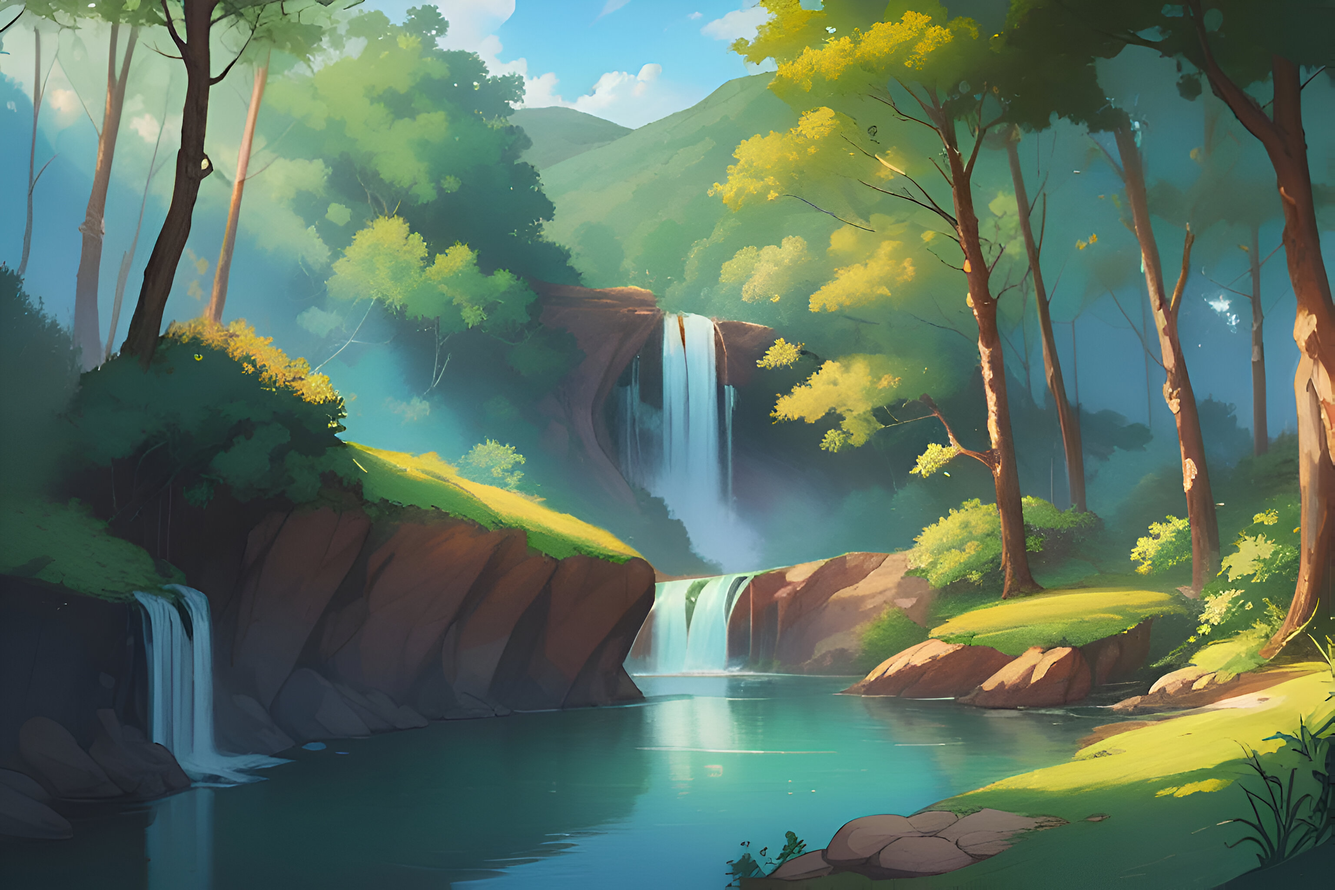
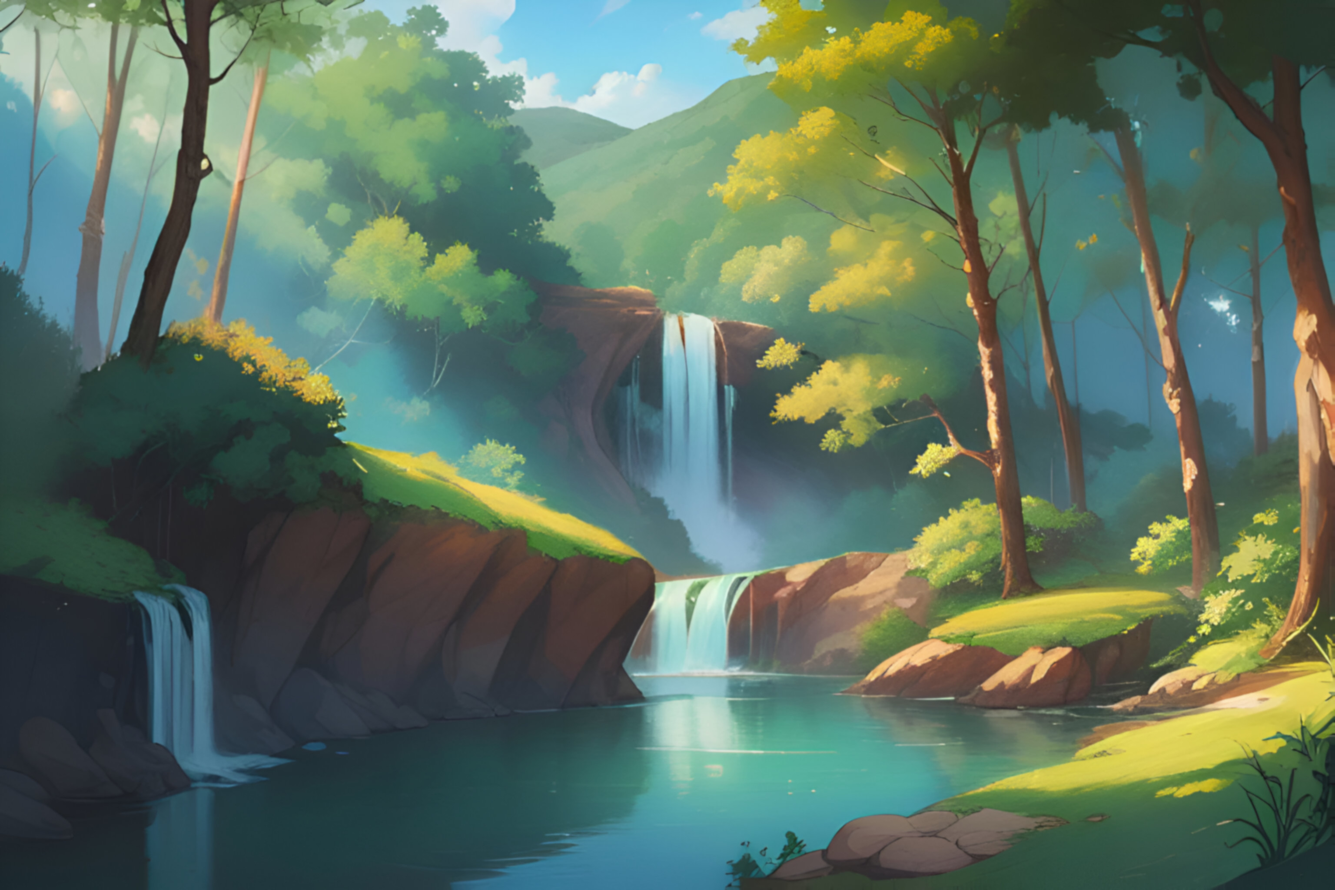
.

diff --git a/src/components/WelcomeScreen.vue b/src/components/WelcomeScreen.vue
@@ -37,10 +37,38 @@ export default {
   width: 80%;
 }
 
+.buttons {
+  display: flex;
+  align-items: center;
+  justify-content: center;
+  margin: 10rem 0 4rem 0;
+}
+
 .logo {
   img {
     height: 100%;
     width: 100%;
+  }
+}
+
+button {
+  font-size: 1.4rem;
+  background: #ffbf00;
+  color: #808836;
+  border: 0.3rem solid #808836;
+  padding: 0.9rem 1.6rem;
+  display: flex;
+  align-items: center;
+  margin: 0 2rem;
+  cursor: pointer;
+  border-radius: 3rem;
+  font-weight: bold;
+  transition: all 0.3s ease;
+  &:hover {
+    transform: scale(1.1);
+  }
+  &:active {
+    transform: scale(0.95);
   }
 }
 

diff --git a/src/assets/main.scss b/src/assets/main.scss
@@ -14,6 +14,7 @@ body {
   background-repeat: no-repeat;
   background-attachment: fixed;
   background-size: cover;
+  background-position: 50% 50%;
   margin: 0;
   padding: 0;
   display: flex;
@@ -21,7 +22,6 @@ body {
   justify-content: center;
   flex-direction: column;
   position: relative;
-  backdrop-filter: blur(1px);
 }
 
 #app {
